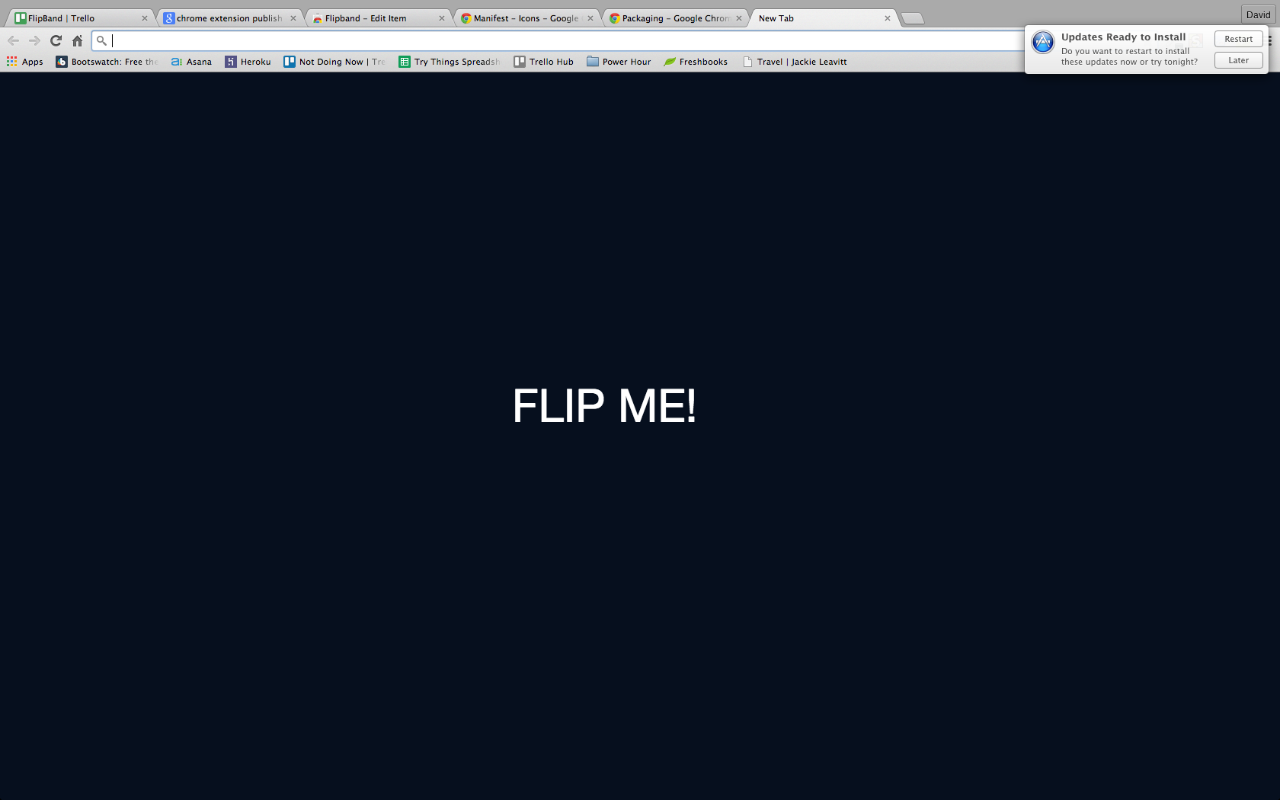
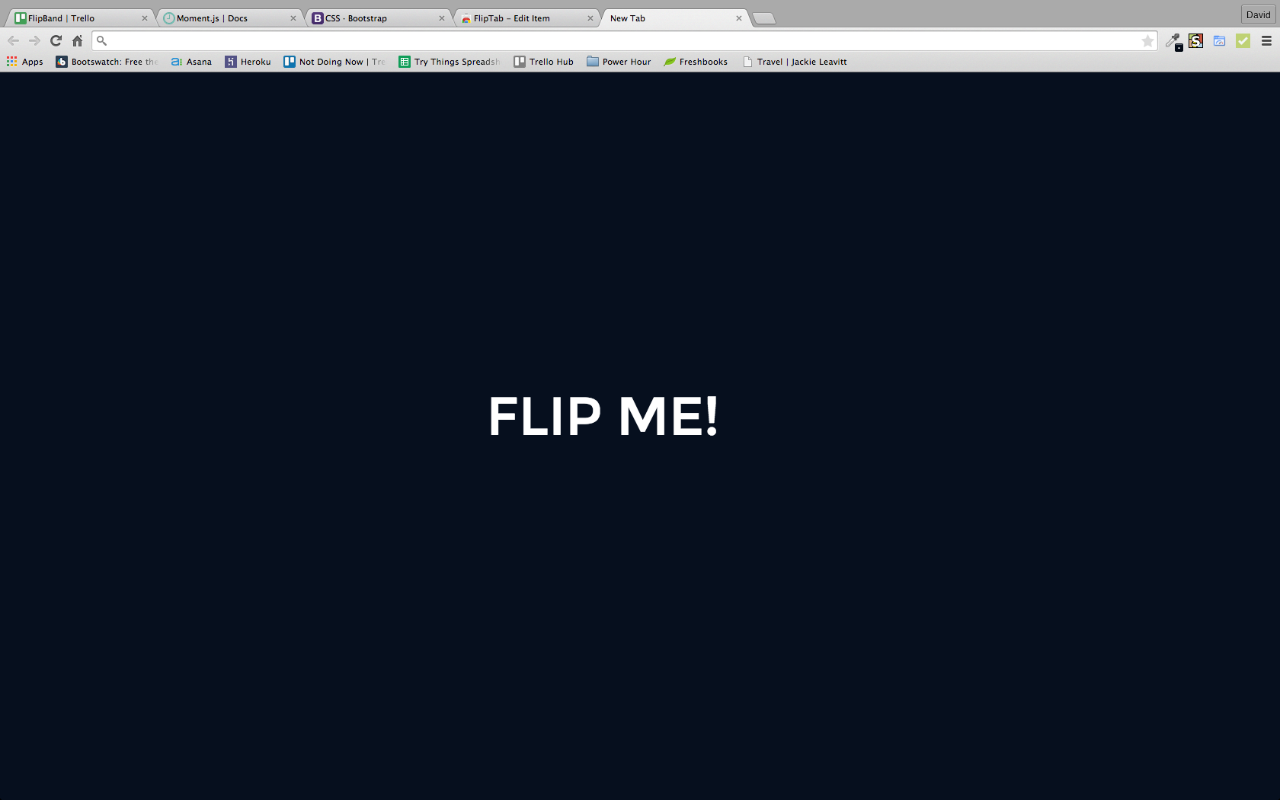
CONFIGURATION: Updated to version 1.0.1, "FlipTab"

diff --git a/popup.html b/popup.html
@@ -1,1 +1,1 @@
-Done or not done? (Improvement: Give a response dynamically based on whether it is flipped or not)
+"Done or not done?"
